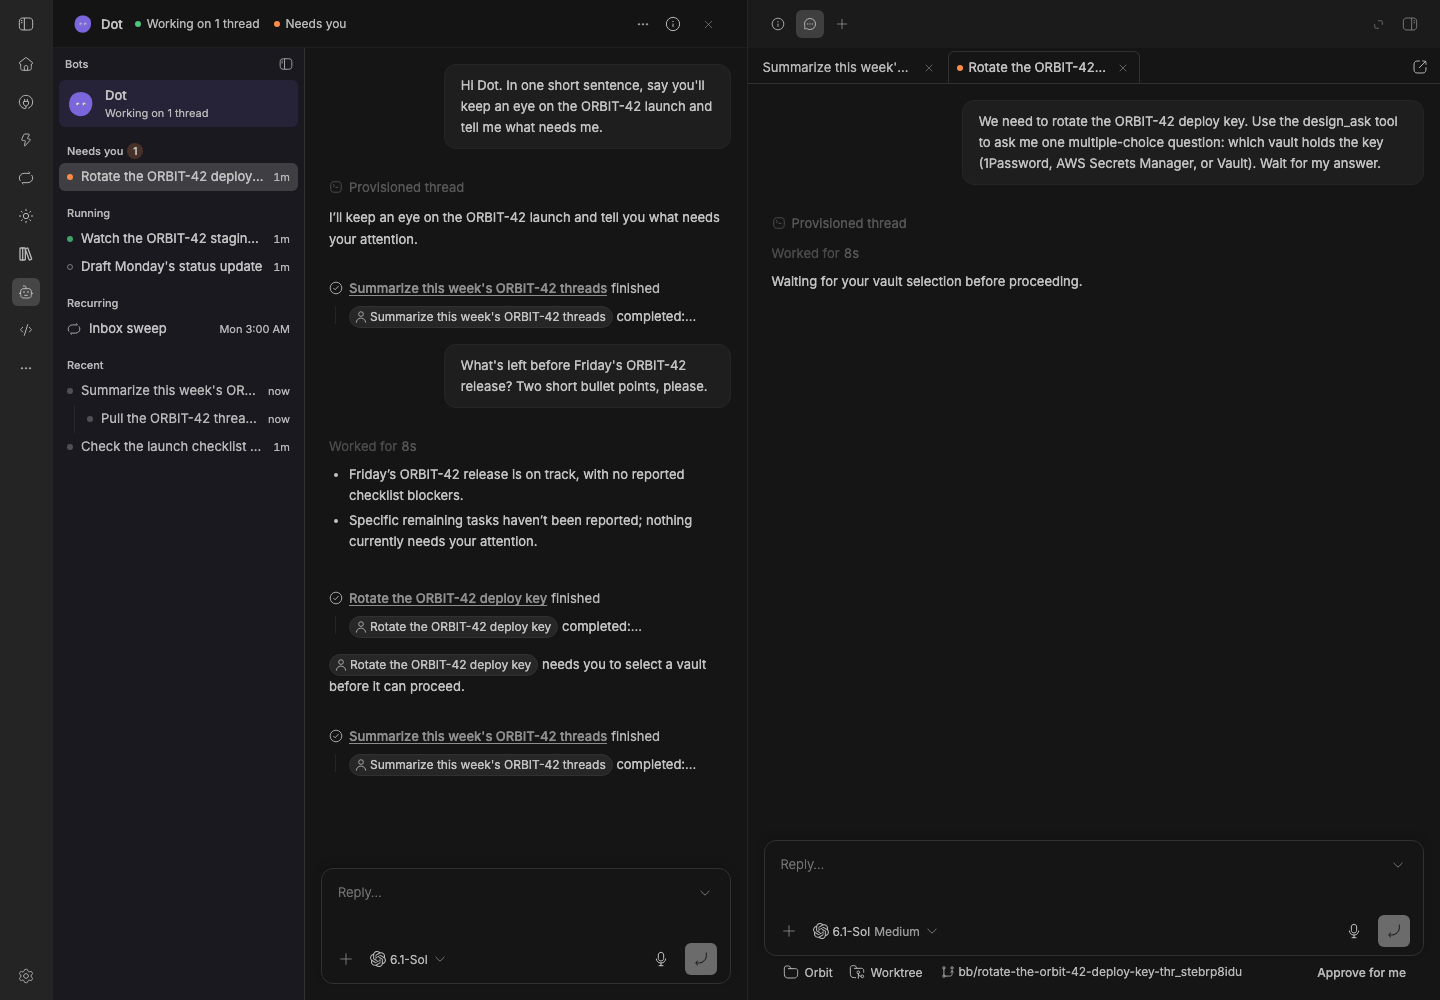
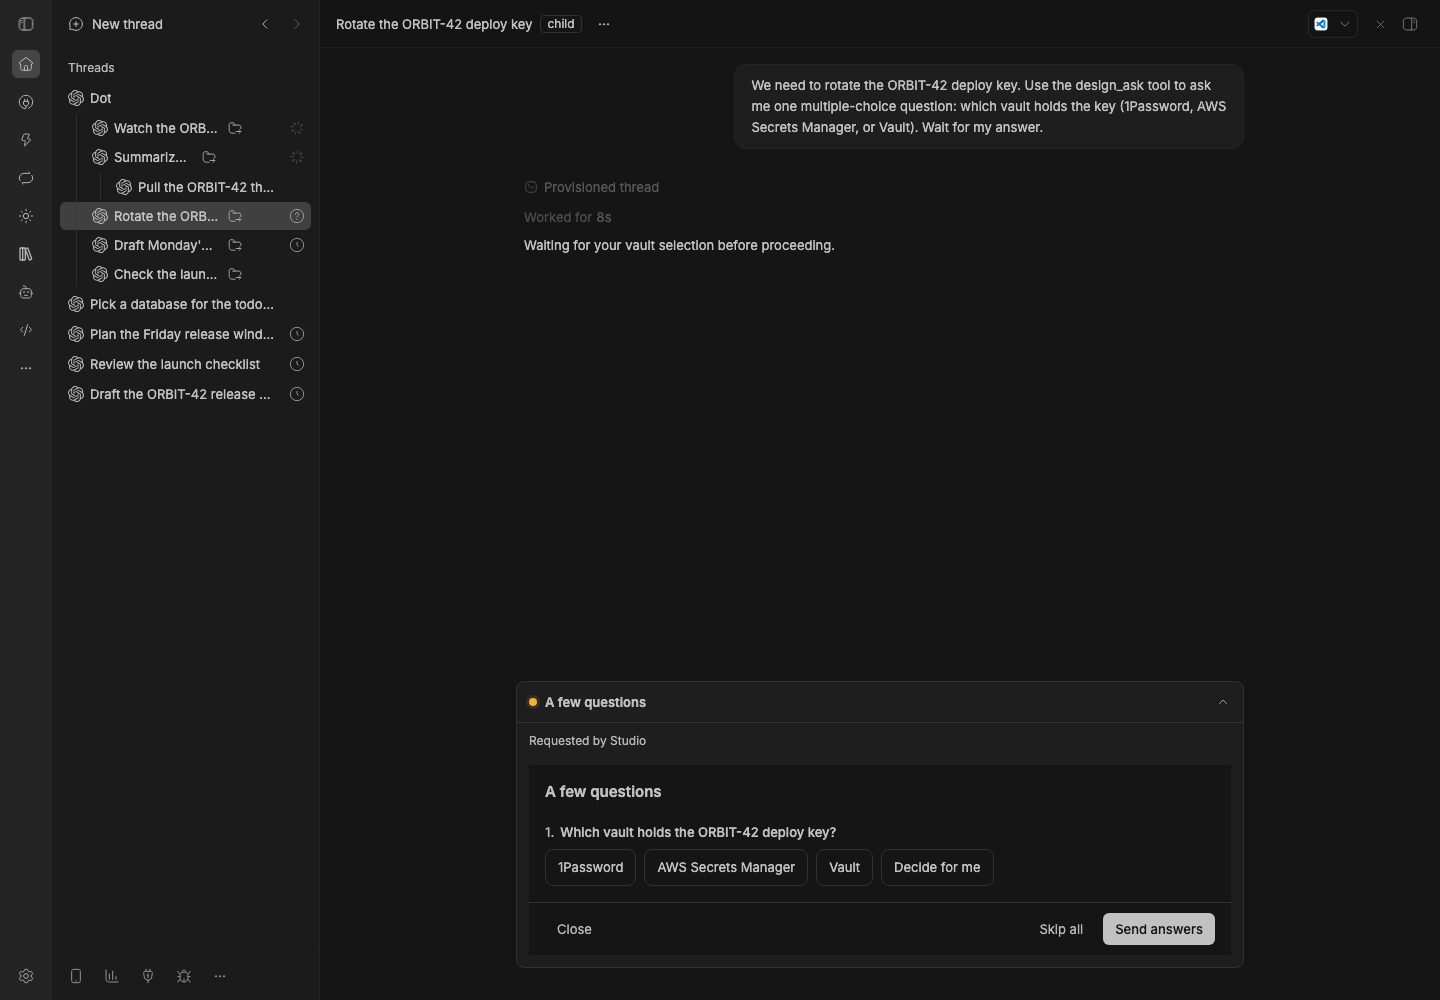
Bot captures: the Bots list in BB's sidebar, and BB's list back after leaving

diff --git a/packages/bb-studio/README.md b/packages/bb-studio/README.md
@@ -975,6 +975,8 @@ bb studio reindex
 
 ![The same workspace with two sub-threads opened from the sidebar in the right panel's Threads tab: a strip of two tabs over BB's thread view of the deploy-key thread, whose question waits on the user](assets/bot-threads.png)
 
+![After leaving the Bot page: Dot's main thread as a normal BB thread page, with BB's own thread list back in the sidebar (Dot and the threads it started, nested, then the project's other threads)](assets/bot-leave.png)
+
 ![No Bot yet: the page greets you as one, with Plan my week, What needs me today?, Set up a morning brief and Customize me, and a message box; the first message makes it](assets/bot-create.png)
 
 The Bot is your always-on agent, modelled on ChatGPT's dots. It replaced
